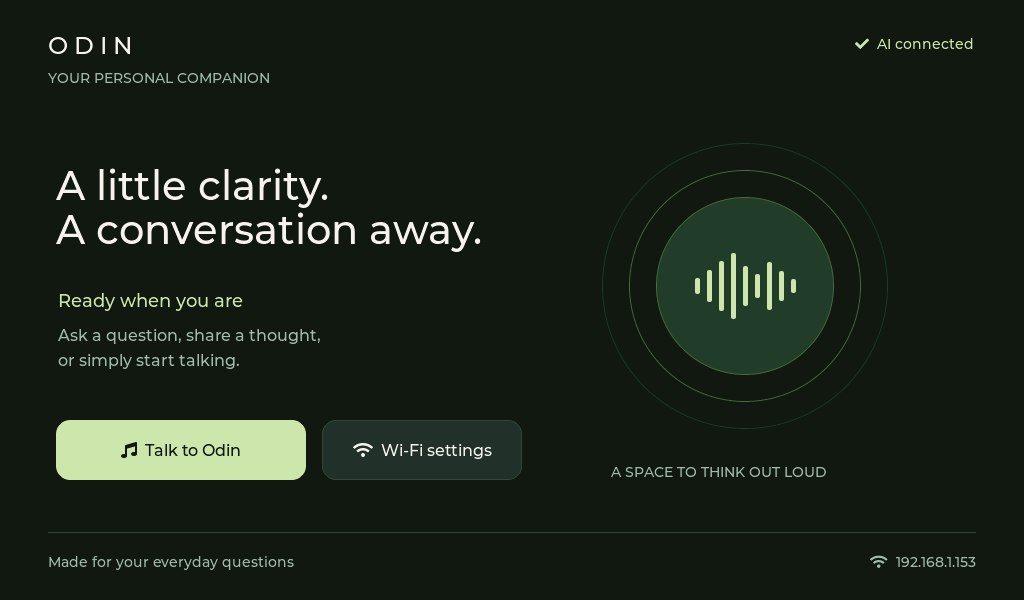
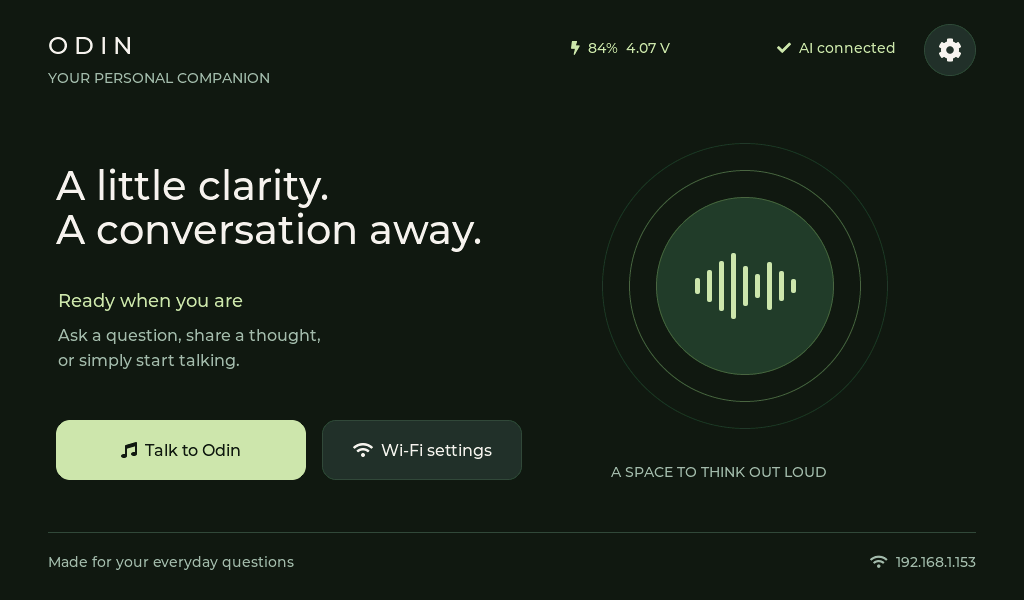
Add STC8 battery status and home cog with Setting page

Changed region(s): [[0.7812, 0.03, 0.9688, 0.15], [0.5625, 0.06, 0.6562, 0.09]]

diff --git a/firmware/main/odin_settings.c b/firmware/main/odin_settings.c
@@ -1,0 +1,160 @@
+#include "odin_settings.h"
+#include "odin_ui.h"
+#include "odin_audio.h"
+#include "odin_wifi_ui.h"
+#include "odin_board.h"
+#include "esp_log.h"
+#include "freertos/FreeRTOS.h"
+#include "freertos/task.h"
+#include "freertos/queue.h"
+
+typedef struct {
+    esp_err_t error;
+    odin_battery_info_t battery;
+} battery_result_t;
+static QueueHandle_t readings;
+static lv_obj_t *page, *battery_value, *battery_details, *battery_note;
+static lv_obj_t *volume_slider, *volume_value;
+
+static const char *charge_name(unsigned value)
+{
+    static const char *names[] = {"Idle", "Charging", "Fully charged", "Not charging", "Charge error"};
+    return value < 5 ? names[value] : "Unknown";
+}
+static void battery_worker(void *arg)
+{
+    bool had_reading = false;
+    esp_err_t previous_error = ESP_OK;
+    for (;;) {
+        battery_result_t result = {0};
+        result.error = odin_board_read_battery(&result.battery);
+        if (result.error == ESP_OK && (!had_reading || previous_error != ESP_OK)) {
+            ESP_LOGI("odin_battery", "STC8 battery: %lu mV, %u%%, charge state %u, ADC %lu mV",
+                     (unsigned long)result.battery.battery_mv, result.battery.percent,
+                     result.battery.charge_state, (unsigned long)result.battery.adc_mv);
+            had_reading = true;
+        } else if (result.error != ESP_OK && (!had_reading || previous_error != result.error)) {
+            ESP_LOGW("odin_battery", "Battery status unavailable: %s", esp_err_to_name(result.error));
+            had_reading = true;
+        }
+        previous_error = result.error;
+        xQueueOverwrite(readings, &result);
+        vTaskDelay(pdMS_TO_TICKS(5000));
+    }
+}
+static void home_cb(lv_event_t *e) { lv_obj_add_flag(page, LV_OBJ_FLAG_HIDDEN); }
+static void open_cb(lv_event_t *e)
+{
+    lv_obj_clear_flag(page, LV_OBJ_FLAG_HIDDEN);
+    lv_obj_move_foreground(page);
+}
+static void wifi_cb(lv_event_t *e)
+{
+    lv_obj_add_flag(page, LV_OBJ_FLAG_HIDDEN);
+    odin_wifi_ui_open();
+}
+static void volume_cb(lv_event_t *e)
+{
+    unsigned value = lv_slider_get_value(volume_slider);
+    odin_audio_set_volume(value);
+    if (value) lv_label_set_text_fmt(volume_value, "%u%%", value);
+    else lv_label_set_text(volume_value, "Muted");
+    if (lv_event_get_code(e) == LV_EVENT_RELEASED || lv_event_get_code(e) == LV_EVENT_PRESS_LOST)
+        odin_audio_save_volume();
+}
+static void poll(lv_timer_t *timer)
+{
+    battery_result_t result;
+    if (xQueueReceive(readings, &result, 0)) {
+        bool available = result.error == ESP_OK;
+        odin_ui_set_battery(available, result.battery.battery_mv,
+                            result.battery.percent, result.battery.charge_state == 1);
+        if (available) {
+            lv_label_set_text_fmt(battery_value, "%lu.%02lu V", (unsigned long)(result.battery.battery_mv / 1000),
+                                  (unsigned long)((result.battery.battery_mv % 1000) / 10));
+            if (result.battery.battery_mv > 4350) {
+                lv_label_set_text(battery_details, "Reading needs checking");
+                lv_label_set_text(battery_note, "Reported voltage is high for one cell. Check whether a battery is connected.");
+                lv_obj_set_style_text_color(battery_value, lv_color_hex(0xF1B5A5), 0);
+            } else {
+                lv_label_set_text_fmt(battery_details, "%u%% remaining\n%s", result.battery.percent,
+                                      charge_name(result.battery.charge_state));
+                lv_label_set_text(battery_note, "Battery percentage is an estimate from the onboard controller.");
+                lv_obj_set_style_text_color(battery_value, lv_color_hex(ODIN_ACCENT), 0);
+            }
+        } else {
+            lv_label_set_text(battery_value, "Unavailable");
+            lv_label_set_text(battery_details, "No valid battery reading");
+            lv_label_set_text(battery_note, "Battery information will refresh automatically when available.");
+        }
+    }
+    unsigned volume = odin_audio_get_volume();
+    if (lv_slider_get_value(volume_slider) != volume) {
+        lv_slider_set_value(volume_slider, volume, LV_ANIM_OFF);
+        if (volume) lv_label_set_text_fmt(volume_value, "%u%%", volume);
+        else lv_label_set_text(volume_value, "Muted");
+    }
+}
+static lv_obj_t *text(lv_obj_t *parent, const char *value, int x, int y, const lv_font_t *font, uint32_t color)
+{
+    lv_obj_t *obj = lv_label_create(parent); lv_label_set_text(obj, value);
+    lv_obj_set_pos(obj, x, y); lv_obj_set_style_text_font(obj, font, 0);
+    lv_obj_set_style_text_color(obj, lv_color_hex(color), 0); return obj;
+}
+static lv_obj_t *button(lv_obj_t *parent, const char *value, int x, int y, int w, lv_event_cb_t cb)
+{
+    lv_obj_t *obj = lv_btn_create(parent); lv_obj_set_pos(obj, x, y); lv_obj_set_size(obj, w, 52);
+    odin_ui_button_style(obj, 0); lv_obj_add_event_cb(obj, cb, LV_EVENT_CLICKED, NULL);
+    lv_obj_t *label = lv_label_create(obj); lv_label_set_text(label, value); lv_obj_center(label); return obj;
+}
+static lv_obj_t *card(lv_obj_t *parent, int y, int h)
+{
+    lv_obj_t *obj = lv_obj_create(parent); lv_obj_set_pos(obj, 8, y); lv_obj_set_size(obj, 944, h);
+    lv_obj_set_style_pad_all(obj, 0, 0); lv_obj_set_style_radius(obj, 18, 0);
+    lv_obj_set_style_border_width(obj, 1, 0); lv_obj_set_style_border_color(obj, lv_color_hex(ODIN_LINE), 0);
+    lv_obj_set_style_bg_color(obj, lv_color_hex(ODIN_SURFACE), 0);
+    lv_obj_clear_flag(obj, LV_OBJ_FLAG_SCROLLABLE); return obj;
+}
+void odin_settings_create(void)
+{
+    readings = xQueueCreate(1, sizeof(battery_result_t));
+    if (!readings) return;
+    lv_obj_t *cog = button(lv_scr_act(), LV_SYMBOL_SETTINGS, 924, 24, 52, open_cb);
+    lv_obj_set_style_radius(cog, LV_RADIUS_CIRCLE, 0);
+    lv_obj_set_style_text_font(cog, &lv_font_montserrat_24, 0);
+    page = lv_obj_create(lv_scr_act()); lv_obj_set_size(page, 1024, 600); lv_obj_center(page);
+    odin_ui_panel_style(page);
+    text(page, "Setting", 8, 8, &lv_font_montserrat_24, ODIN_TEXT);
+    text(page, "A few things, just the way you like them.", 8, 68, &lv_font_montserrat_16, ODIN_MUTED);
+    button(page, LV_SYMBOL_LEFT "  Home", 844, 0, 108, home_cb);
+    lv_obj_t *battery_card = card(page, 112, 200);
+    text(battery_card, LV_SYMBOL_BATTERY_FULL "  Battery", 24, 24, &lv_font_montserrat_18, ODIN_TEXT);
+    battery_value = text(battery_card, "Checking...", 24, 68, &lv_font_montserrat_40, ODIN_ACCENT);
+    battery_details = text(battery_card, "Waiting for battery status", 500, 74, &lv_font_montserrat_18, ODIN_TEXT);
+    lv_obj_set_style_text_line_space(battery_details, 10, 0);
+    battery_note = text(battery_card, "Readings update automatically.", 24, 156, &lv_font_montserrat_14, ODIN_MUTED);
+    lv_obj_t *audio_card = card(page, 336, 172);
+    text(audio_card, LV_SYMBOL_VOLUME_MAX "  Speaker volume", 24, 24, &lv_font_montserrat_18, ODIN_TEXT);
+    unsigned volume = odin_audio_get_volume();
+    volume_value = text(audio_card, "", 548, 24, &lv_font_montserrat_18, ODIN_ACCENT);
+    if (volume) lv_label_set_text_fmt(volume_value, "%u%%", volume);
+    else lv_label_set_text(volume_value, "Muted");
+    volume_slider = lv_slider_create(audio_card); lv_obj_set_pos(volume_slider, 32, 94);
+    lv_obj_set_size(volume_slider, 564, 10); lv_slider_set_range(volume_slider, 0, 100);
+    lv_slider_set_value(volume_slider, volume, LV_ANIM_OFF); lv_obj_set_ext_click_area(volume_slider, 18);
+    lv_obj_set_style_bg_color(volume_slider, lv_color_hex(ODIN_LINE), LV_PART_MAIN);
+    lv_obj_set_style_bg_color(volume_slider, lv_color_hex(ODIN_ACCENT), LV_PART_INDICATOR);
+    lv_obj_set_style_bg_color(volume_slider, lv_color_hex(ODIN_ACCENT), LV_PART_KNOB);
+    lv_obj_add_event_cb(volume_slider, volume_cb, LV_EVENT_VALUE_CHANGED, NULL);
+    lv_obj_add_event_cb(volume_slider, volume_cb, LV_EVENT_RELEASED, NULL);
+    lv_obj_add_event_cb(volume_slider, volume_cb, LV_EVENT_PRESS_LOST, NULL);
+    button(audio_card, LV_SYMBOL_WIFI "  Wi-Fi settings", 696, 74, 220, wifi_cb);
+    text(audio_card, "Volume is saved when you release the slider.", 24, 132, &lv_font_montserrat_14, ODIN_MUTED);
+    lv_obj_add_flag(page, LV_OBJ_FLAG_HIDDEN);
+    lv_timer_create(poll, 250, NULL);
+    lv_mem_monitor_t memory; lv_mem_monitor(&memory);
+    ESP_LOGI("odin_settings", "LVGL heap: %u%% used, %u bytes free, largest block %u",
+             memory.used_pct, (unsigned)memory.free_size, (unsigned)memory.free_biggest_size);
+    if (xTaskCreate(battery_worker, "odin_battery", 4096, NULL, 2, NULL) != pdPASS)
+        lv_label_set_text(battery_details, "Battery monitoring could not start");
+}

diff --git a/firmware/odin_ui/odin_ui.c b/firmware/odin_ui/odin_ui.c
@@ -1,7 +1,7 @@
 #include "odin_ui.h"
 #include <string.h>
 
-static lv_obj_t *status_label, *transcript_label, *mode_label;
+static lv_obj_t *status_label, *transcript_label, *mode_label, *battery_label;
 
 void odin_ui_button_style(lv_obj_t *obj, int variant)
 {
@@ -73,8 +73,11 @@ void odin_ui_create(void)
     lv_obj_t *scr = lv_scr_act(); odin_ui_panel_style(scr); lv_obj_set_style_pad_all(scr, 0, 0);
     label(scr, "O D I N", 48, 32, &lv_font_montserrat_24, ODIN_TEXT);
     label(scr, "YOUR PERSONAL COMPANION", 48, 70, &lv_font_montserrat_14, ODIN_MUTED);
-    mode_label = label(scr, "Connecting", 744, 36, &lv_font_montserrat_14, ODIN_ACCENT);
-    lv_obj_set_width(mode_label, 230); lv_obj_set_style_text_align(mode_label, LV_TEXT_ALIGN_RIGHT, 0);
+    mode_label = label(scr, "Connecting", 690, 40, &lv_font_montserrat_14, ODIN_ACCENT);
+    lv_obj_set_width(mode_label, 206); lv_obj_set_style_text_align(mode_label, LV_TEXT_ALIGN_RIGHT, 0);
+    battery_label = label(scr, LV_SYMBOL_BATTERY_EMPTY "  Battery --", 454, 40, &lv_font_montserrat_14, ODIN_MUTED);
+    lv_obj_set_width(battery_label, 216);
+    lv_obj_set_style_text_align(battery_label, LV_TEXT_ALIGN_RIGHT, 0);
     label(scr, "A little clarity.\nA conversation away.", 56, 164, &lv_font_montserrat_40, ODIN_TEXT);
     status_label = label(scr, "Ready when you are", 58, 290, &lv_font_montserrat_18, ODIN_ACCENT);
     transcript_label = label(scr, "Ask a question, share a thought,\nor simply start talking.", 58, 326, &lv_font_montserrat_16, ODIN_MUTED);
@@ -115,4 +118,25 @@ void odin_ui_set_mode(const char *mode)
 {
     if (!mode_label || !mode) return;
     lv_label_set_text(mode_label, !strcmp(mode, "LM STUDIO") ? LV_SYMBOL_OK "  AI connected" : "AI offline");
+}
+
+void odin_ui_set_battery(bool available, uint32_t millivolts, unsigned percent, bool charging)
+{
+    if (!battery_label) return;
+    if (!available) {
+        lv_label_set_text(battery_label, LV_SYMBOL_BATTERY_EMPTY "  Battery --");
+        lv_obj_set_style_text_color(battery_label, lv_color_hex(ODIN_MUTED), 0);
+        return;
+    }
+    if (millivolts > 4350) {
+        lv_label_set_text(battery_label, LV_SYMBOL_BATTERY_EMPTY "  Check battery");
+        lv_obj_set_style_text_color(battery_label, lv_color_hex(0xF1B5A5), 0);
+        return;
+    }
+    const char *icon = charging ? LV_SYMBOL_CHARGE : percent > 80 ? LV_SYMBOL_BATTERY_FULL :
+                       percent > 55 ? LV_SYMBOL_BATTERY_3 : percent > 30 ? LV_SYMBOL_BATTERY_2 :
+                       percent > 10 ? LV_SYMBOL_BATTERY_1 : LV_SYMBOL_BATTERY_EMPTY;
+    lv_label_set_text_fmt(battery_label, "%s  %u%%  %lu.%02lu V", icon, percent,
+                          (unsigned long)(millivolts / 1000), (unsigned long)((millivolts % 1000) / 10));
+    lv_obj_set_style_text_color(battery_label, lv_color_hex(percent <= 15 && !charging ? 0xF1B5A5 : ODIN_ACCENT), 0);
 }

diff --git a/firmware/board/odin_board.c b/firmware/board/odin_board.c
@@ -196,3 +196,43 @@ esp_err_t odin_board_init(void)
     ESP_RETURN_ON_ERROR(panel_init(), TAG, "display panel");
     return display_lvgl_init();
 }
+
+/* Matches the supplied bsp_stc8h1kxx driver: 0x2F, byte-wise register reads.
+ * Decode explicitly instead of relying on compiler structure padding. */
+static i2c_master_dev_handle_t battery_device;
+static uint32_t battery_u32_le(const uint8_t *p)
+{
+    return (uint32_t)p[0] | ((uint32_t)p[1] << 8) |
+           ((uint32_t)p[2] << 16) | ((uint32_t)p[3] << 24);
+}
+esp_err_t odin_board_read_battery(odin_battery_info_t *info)
+{
+    if (!info) return ESP_ERR_INVALID_ARG;
+    if (!i2c_bus) return ESP_ERR_INVALID_STATE;
+    if (!battery_device) {
+        esp_err_t err = i2c_master_probe(i2c_bus, 0x2F, 100);
+        if (err != ESP_OK) return err;
+        const i2c_device_config_t cfg = {
+            .dev_addr_length = I2C_ADDR_BIT_LEN_7,
+            .device_address = 0x2F,
+            .scl_speed_hz = 400000,
+        };
+        err = i2c_master_bus_add_device(i2c_bus, &cfg, &battery_device);
+        if (err != ESP_OK) return err;
+    }
+    uint8_t raw[12] = {0};
+    for (uint8_t reg = 0; reg < sizeof(raw); ++reg) {
+        esp_err_t err = i2c_master_transmit_receive(battery_device, &reg, 1, raw + reg, 1, 100);
+        if (err != ESP_OK) return err;
+    }
+    odin_battery_info_t sample = {
+        .adc_mv = battery_u32_le(raw),
+        .battery_mv = battery_u32_le(raw + 4),
+        .percent = raw[8], .charge_state = raw[9], .led_state = raw[10],
+    };
+    if (sample.adc_mv > 3600 || sample.battery_mv < 2000 || sample.battery_mv > 5000 ||
+        sample.percent > 100 || sample.charge_state > 4 || sample.led_state > 4)
+        return ESP_ERR_INVALID_RESPONSE;
+    *info = sample;
+    return ESP_OK;
+}

diff --git a/firmware/main/odin_ai.c b/firmware/main/odin_ai.c
@@ -261,6 +261,12 @@ static void volume_changed(lv_event_t *e)
 }
 static void ai_poll(lv_timer_t *t)
 {
+    unsigned volume = odin_audio_get_volume();
+    if (lv_slider_get_value(volume_slider) != volume) {
+        lv_slider_set_value(volume_slider, volume, LV_ANIM_OFF);
+        if (volume) lv_label_set_text_fmt(volume_label, "Volume  %u%%", volume);
+        else lv_label_set_text(volume_label, "Volume  Muted");
+    }
     static result_t result;
     while (xQueueReceive(results, &result, 0)) {
         if (result.background && busy) continue;

diff --git a/firmware/main/main.c b/firmware/main/main.c
@@ -6,6 +6,7 @@
 #include "odin_wifi_ui.h"
 #include "odin_ai.h"
 #include "odin_audio.h"
+#include "odin_settings.h"
 #include "nvs_flash.h"
 
 static const char *TAG = "odin";
@@ -29,6 +30,7 @@ void app_main(void)
     odin_ui_set_transcript("Ask a question, share a thought,\nor simply start talking.");
     odin_wifi_ui_create();
     odin_ai_create();
+    odin_settings_create();
     lvgl_port_unlock();
     ESP_ERROR_CHECK(odin_board_set_backlight(100));
     ESP_LOGI(TAG, "Odin UI ready; display and touch initialized");

diff --git a/firmware/board/include/odin_board.h b/firmware/board/include/odin_board.h
@@ -5,3 +5,13 @@
 /* Owns V1.0 LCD power, backlight, DSI, touch I2C, and the LVGL task. */
 esp_err_t odin_board_init(void);
 esp_err_t odin_board_set_backlight(uint32_t brightness);
+
+/* STC8 battery registers. Call from a worker task; uses the existing touch bus. */
+typedef struct {
+    uint32_t adc_mv;
+    uint32_t battery_mv;
+    uint8_t percent;
+    uint8_t charge_state;
+    uint8_t led_state;
+} odin_battery_info_t;
+esp_err_t odin_board_read_battery(odin_battery_info_t *info);

diff --git a/firmware/main/odin_wifi_ui.c b/firmware/main/odin_wifi_ui.c
@@ -173,7 +173,8 @@ static void close_cb(lv_event_t *e)
     hide_keyboard();
     lv_obj_add_flag(dialog, LV_OBJ_FLAG_HIDDEN);
 }
-static void open_cb(lv_event_t *e) { lv_obj_clear_flag(dialog, LV_OBJ_FLAG_HIDDEN); }
+void odin_wifi_ui_open(void) { lv_obj_clear_flag(dialog, LV_OBJ_FLAG_HIDDEN); lv_obj_move_foreground(dialog); }
+static void open_cb(lv_event_t *e) { odin_wifi_ui_open(); }
 static void focus_cb(lv_event_t *e)
 {
     show_keyboard(lv_event_get_target(e));

diff --git a/firmware/odin_ui/odin_ui.h b/firmware/odin_ui/odin_ui.h
@@ -15,6 +15,7 @@ void odin_ui_create(void);
 void odin_ui_set_status(const char *status);
 void odin_ui_set_transcript(const char *text);
 void odin_ui_set_mode(const char *mode);
+void odin_ui_set_battery(bool available, uint32_t millivolts, unsigned percent, bool charging);
 /* Shared appearance: 0 secondary, 1 primary, 2 destructive. */
 void odin_ui_button_style(lv_obj_t *obj, int variant);
 void odin_ui_panel_style(lv_obj_t *obj);

diff --git a/firmware/main/odin_wifi_ui.h b/firmware/main/odin_wifi_ui.h
@@ -1,3 +1,5 @@
 #pragma once
 /* Create under the LVGL lock. The worker owns all blocking Wi-Fi operations. */
 void odin_wifi_ui_create(void);
+
+void odin_wifi_ui_open(void);

diff --git a/firmware/main/odin_settings.h b/firmware/main/odin_settings.h
@@ -1,0 +1,3 @@
+#pragma once
+/* Call under the LVGL lock after the Wi-Fi and chat UI have been created. */
+void odin_settings_create(void);

diff --git a/firmware/docs/STC8-battery.md b/firmware/docs/STC8-battery.md
@@ -1,0 +1,35 @@
+# STC8 battery interface
+
+Based on the user-supplied `bsp_stc8h1kxx.c` and `.h` from Downloads, which
+are byte-identical to the corresponding files in the local
+`ESP32-P4-Adcance-brookesia_phone_inch10_1` BSP. The hardware schematic also
+connects STC8 battery sensing to VBAT through R187 (39k) and R188 (100k).
+
+The board component owns and reuses the touch bus on SDA45/SCL46; it does not
+create a second bus on those pins. The STC8 uses 7-bit address 0x2F at 400 kHz.
+Each read transmits one register index and receives one byte with a repeated
+start. Registers 0x00–0x0B are read individually as in the supplied driver.
+
+| Registers | Interpretation |
+| --- | --- |
+| 0x00–0x03 | ADC millivolts, unsigned 32-bit little-endian |
+| 0x04–0x07 | Battery millivolts, unsigned 32-bit little-endian |
+| 0x08 | Reported percentage, 0–100 |
+| 0x09 | Charge state: 0 idle, 1 charging, 2 full, 3 not charging, 4 error |
+| 0x0A | LED state: 0 idle, 1 charging, 2 full, 3 not charging, 4 low power |
+| 0x0B | Trailing padding in the supplied 12-byte C structure; ignored |
+
+The implementation decodes bytes explicitly and rejects implausible voltage,
+percentage, or status values. Valid controller data is not proof that a battery
+is physically attached: the protocol has no independently verified pack-present
+bit. Calibration should be checked against a meter under USB and battery power.
+Polling runs in a worker task; an LVGL timer consumes the latest result and
+updates the home indicator and Setting page. GPIO/PWM control registers are
+never written by the battery monitor.
+
+First hardware check: the V1.0 board acknowledged 0x2F and returned ADC
+3283 mV, battery 4563 mV, 100%, charge state 2. This establishes protocol
+communication, not correct cell voltage or pack presence. Readings above
+4350 mV are flagged as needing inspection; the home header shows Check battery
+and Setting displays the controller's reported voltage without presenting its
+percentage as reliable. A connected-cell measurement remains to be checked.

diff --git a/firmware/README.md b/firmware/README.md
@@ -165,3 +165,19 @@ updates playback per audio block. Releasing it saves the setting in the
 `odin_audio` NVS namespace through a worker task; startup restores it before
 creating the UI. The initial level is 50%. Forget network only clears Wi-Fi
 credentials and does not change volume.
+
+## Battery and Setting page
+
+The home header shows a battery icon, reported percentage, and voltage. A cog
+button opens **Setting**, with battery and charging details, saved speaker
+volume, and a shortcut to Wi-Fi settings. The STC8 is read every five seconds
+on the existing touch I2C bus (GPIO45/46), at address 0x2F, using the supplied
+bsp_stc8h1kxx driver's byte-by-byte register protocol. The percentage is an
+estimate from the controller, not a calibrated state-of-charge measurement.
+If the controller is absent, a transaction fails, or data is invalid, the UI
+shows unavailable instead of displaying a previous or fabricated reading.
+
+The native LVGL preview `docs/ui/settings.png` shows the Setting page with
+sample battery values. Startup used 48% of the configured LVGL heap during the
+hardware check. The STC8 acknowledged and returned battery data; the observed
+USB-powered reading was above 4.35 V, so it is flagged as needing inspection.
